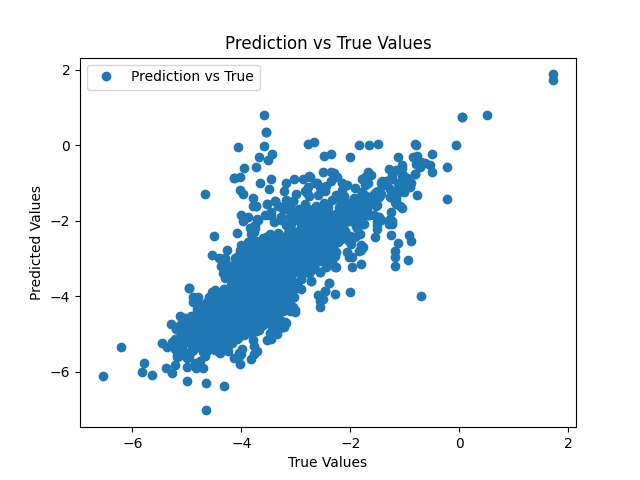
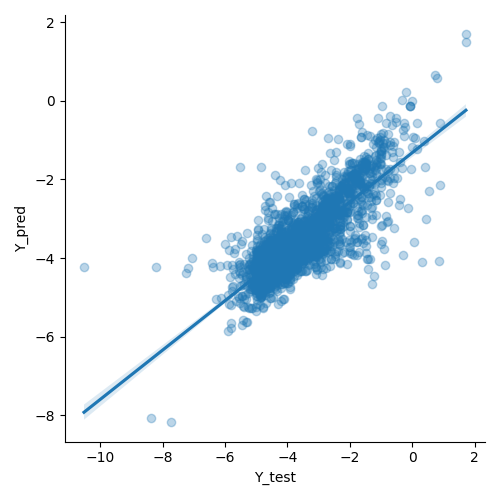
Add files via upload

diff --git a/learn.py b/learn.py
@@ -2,8 +2,10 @@ import pandas as pd
 import numpy as np
 from sklearn.feature_selection import VarianceThreshold 
 from sklearn.model_selection import train_test_split
-from sklearn.preprocessing import QuantileTransformer,StandardScaler,Normalizer,PowerTransformer
+from sklearn.preprocessing import QuantileTransformer,StandardScaler,Normalizer,PowerTransformer, MinMaxScaler
 from sklearn.model_selection import KFold,cross_val_score
+from sklearn.externals import joblib
+import pickle
 
 # from sklearn import svm
 from sklearn.svm import SVR
@@ -37,8 +39,7 @@ f"""Data Split Details
 - test = {len(X_test)}\n.\n.\n.
 """
 )
-
-scaler = StandardScaler()
+scaler = MinMaxScaler()
 X_train = scaler.fit_transform(X_train)
 X_test = scaler.transform(X_test)
 print("X standardized\n.\n.\n.")
@@ -48,19 +49,23 @@ transformer= QuantileTransformer(
     random_state=42,
     output_distribution="normal"
 )
-
-transformer = PowerTransformer(
-    # method="box-cox",
-)
-
 X_train = transformer.fit_transform(X_train)
 X_test =transformer.transform(X_test)
 print("X transformed\n.\n.\n.")
 
+
 selection = VarianceThreshold(threshold=(.8 * (1 - .8)))
 X_train = selection.fit_transform(X_train)
 X_test =selection.transform(X_test)
+print(X_train.shape)
 print("Low variance X removed\n.\n.\n.")
+
+
+# transformer = PowerTransformer(
+#     # method="box-cox",
+# )
+
+
 
 print("Model is Learning\n.\n.\n.")
 model = RandomForestRegressor(
@@ -77,21 +82,15 @@ print("Model Learned")
 print(Y_pred)
 print(rsquare)
 
-import matplotlib.pyplot as plt
+pd.DataFrame({
+    "Y_pred":Y_pred,
+    "Y_test":Y_test
+}).to_csv("result.csv",index=False)
 
 
-# Plotting
-plt.plot(Y_pred, Y_test , 'o', label='Prediction vs True')
-plt.xlabel('True Values')
-plt.ylabel('Predicted Values')
-plt.title('Prediction vs True Values')
-plt.legend()
+# Export the trained model to a file
+with open('model_filename.pkl', 'wb') as file:
+    pickle.dump(model, file)
 
-# Save the plot to a file (e.g., PNG, PDF, etc.)
-plt.savefig('prediction_vs_true_plot.png')
-
-
-# cv_results = cross_val_score(model, X_train, Y_train, cv=kf, scoring='neg_mean_squared_error')
-# print("Cross-Validation Results (Mean Squared Error):", cv_results)
-# print("Mean MSE: {:.2f}".format(cv_results.mean()))
-# print("Standard Deviation: {:.2f}".format(cv_results.std()))
+# Export the trained model to a file
+joblib.dump(model, 'model_filename.joblib')

diff --git a/hyper.py b/hyper.py
@@ -1,0 +1,86 @@
+import pandas as pd
+import numpy as np
+from sklearn.feature_selection import VarianceThreshold 
+from sklearn.model_selection import train_test_split, GridSearchCV
+from sklearn.preprocessing import QuantileTransformer,StandardScaler,Normalizer
+from sklearn.model_selection import KFold,cross_val_score
+from sklearn.ensemble import RandomForestRegressor
+from sklearn.model_selection import GridSearchCV
+from sklearn.metrics import mean_squared_error, r2_score
+import matplotlib.pyplot as plt
+
+
+df = pd.read_csv("balanced.csv",sep=";")
+
+X = df.drop(columns=["pIC50","Smiles","categories"])
+Y = df["pIC50"]
+print("X and Y defined\n.\n.\n.")
+
+X_train, X_test, Y_train, Y_test = train_test_split(
+    X,
+    Y,
+    test_size=0.2,
+    random_state=42,
+    stratify=df["categories"],
+    )
+
+print("X and Y divided")
+print(
+f"""Data Split Details
+- train = {len(X_train)}
+- test = {len(X_test)}\n.\n.\n.
+"""
+)
+
+scaler = StandardScaler()
+X_train = scaler.fit_transform(X_train)
+X_test = scaler.transform(X_test)
+print("X standardized\n.\n.\n.")
+
+transformer= QuantileTransformer(
+    random_state=42,
+    output_distribution="normal"
+)
+X_train = transformer.fit_transform(X_train)
+X_test =transformer.transform(X_test)
+print("X transformed\n.\n.\n.")
+
+selection = VarianceThreshold(threshold=(.8 * (1 - .8)))
+X_train = selection.fit_transform(X_train)
+X_test =selection.transform(X_test)
+print("Low variance X removed\n.\n.\n.")
+
+print("Model is Learning\n.\n.\n.")
+
+
+param_grid = {
+    'n_estimators': [50, 100, 200],
+    'max_depth': [None, 10, 20],
+    'min_samples_split': [2, 5, 10]
+}
+
+rf = RandomForestRegressor()
+
+grid_search = GridSearchCV(
+    rf, 
+    param_grid, 
+    cv=5, 
+    scoring='neg_mean_squared_error'
+    )
+
+grid_search.fit(X_train, Y_train)
+
+best_params = grid_search.best_params_
+
+# Step 7: Evaluate the model with the best hyperparameters on the test set
+final_model = grid_search.best_estimator_
+Y_pred = final_model.predict(X_test)
+
+# Step 8: Calculate evaluation metrics
+mse = mean_squared_error(Y_test, Y_pred)
+r2 = r2_score(Y_test, Y_pred)
+
+# Step 9: Print the results
+print(f"Best Hyperparameters: {best_params}")
+print(f"Mean Squared Error (MSE): {mse}")
+print(f"R-squared (R²): {r2}")

diff --git a/classifier.py b/classifier.py
@@ -2,7 +2,7 @@ import pandas as pd
 import numpy as np
 from sklearn.feature_selection import VarianceThreshold 
 from sklearn.model_selection import train_test_split
-from sklearn.preprocessing import QuantileTransformer,StandardScaler,Normalizer,PowerTransformer
+from sklearn.preprocessing import QuantileTransformer,StandardScaler,LabelEncoder
 from sklearn.model_selection import KFold,cross_val_score
 
 from sklearn.ensemble import RandomForestClassifier
@@ -11,6 +11,9 @@ df = pd.read_csv("balanced.csv",sep=";")
 X = df.drop(columns=["pIC50","Smiles","categories"])
 Y = df["categories"]
 print("X and Y defined\n.\n.\n.")
+enc = LabelEncoder()
+Y = enc.fit_transform(Y)
+print("Y is encoded")
 
 X_train, X_test, Y_train, Y_test = train_test_split(
     X,
@@ -58,8 +61,10 @@ model = RandomForestClassifier(
 print("Model is Learning\n.\n.\n.")
 model.fit(X_train, Y_train)
 print("Model Learned\n.\n.\n.")
-Y_pred=model.predict(X_test)
+
+
 print("Model is Predicting\n.\n.\n.")
+Y_pred=model.predict(X_test)
 
 from sklearn.metrics import accuracy_score, precision_score, recall_score, f1_score
 
@@ -70,3 +75,17 @@ recall = recall_score(Y_test, Y_pred, average='macro')
 f1 = f1_score(Y_test, Y_pred, average='macro')   
 
 print(f"Accuracy: {accuracy}, Precision: {precision}, Recall: {recall}, F1 Score: {f1}")
+
+
+from sklearn.metrics import confusion_matrix
+import seaborn as sns
+import matplotlib.pyplot as plt
+
+# Assuming 'y_true' is the true labels and 'y_pred' is the predicted labels
+cm = confusion_matrix(Y_test, Y_pred)
+
+# Visualize the confusion matrix using seaborn
+sns.heatmap(cm, annot=True, fmt='d', cmap='Blues', cbar=False)
+plt.xlabel('Predicted Labels')
+plt.ylabel('True Labels')
+plt.savefig('prediction_vs_true_plot (Classifier).png')

diff --git a/asses.py b/asses.py
@@ -1,0 +1,24 @@
+import pandas as pd
+import seaborn as sns
+import matplotlib.pyplot as plt
+
+data = pd.read_csv("result.csv")
+data["residue"]=data["Y_pred"]-data["Y_test"]
+sns.lmplot(
+    data,
+    x="Y_test",
+    y="Y_pred",
+    scatter_kws={"alpha": 0.3},
+    ci=95,
+    
+)
+print(data.describe())
+
+plt.savefig("prediction_vs_true_plot.png")
+plt.close()
+
+sns.histplot(
+    data,
+    x="residue"
+)
+plt.savefig("residue.png")
